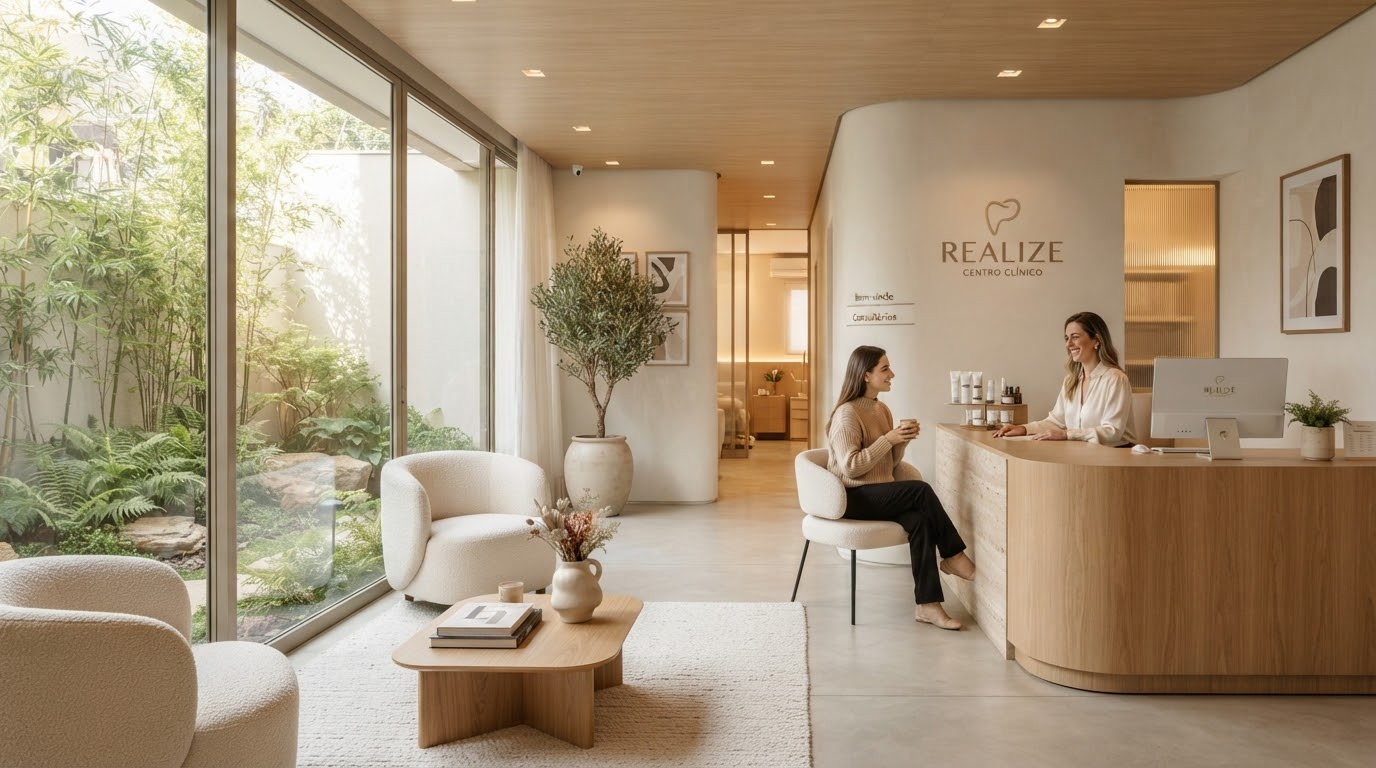
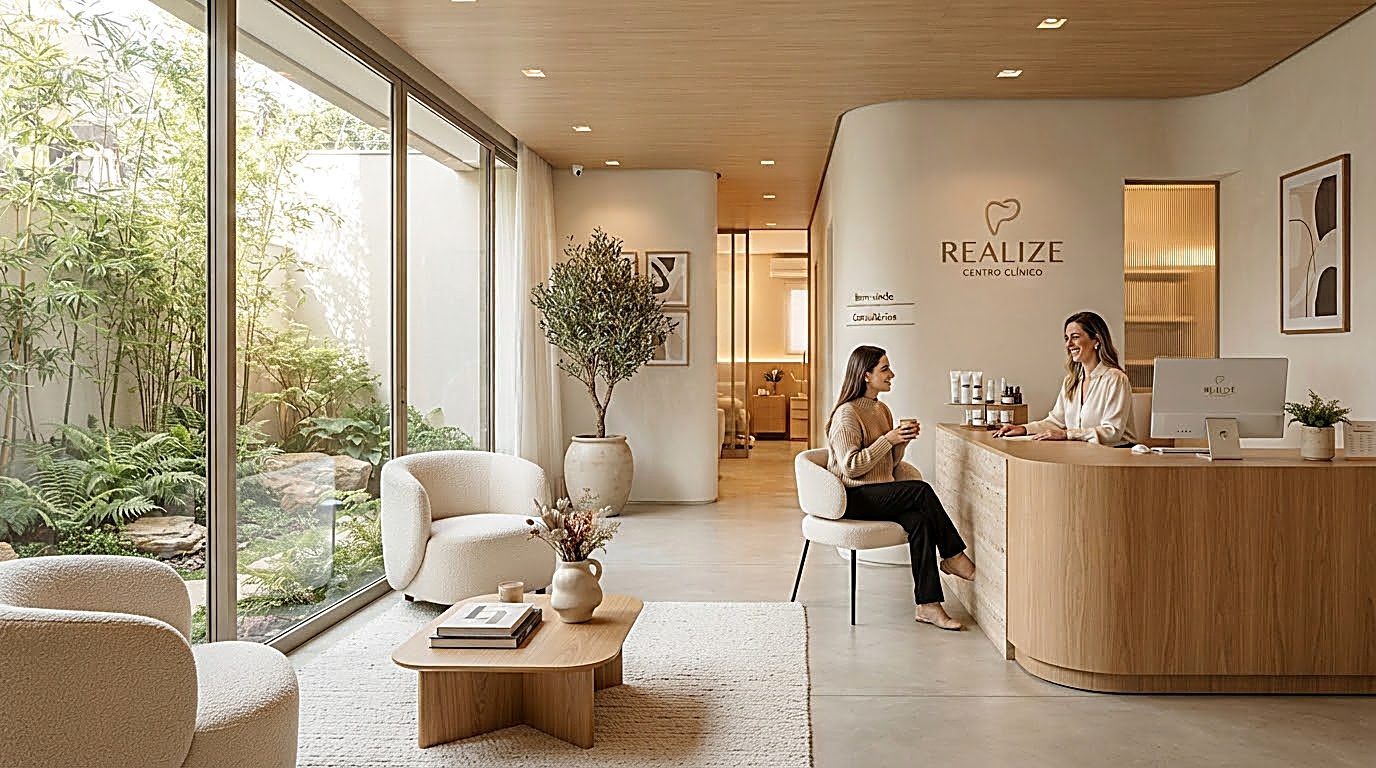
fix: centraliza texto do hero e padroniza os 3 cards de procedimentos como placeholder
Hero: texto e botoes agora centralizados; gradiente de contraste trocado
de linear (unilateral) para radial, ja que um overlay pensado pra texto
alinhado a esquerda deixava a metade direita do texto centralizado sem
contraste suficiente sobre a foto. Aplicado unsharp mask + reencode em
qualidade maior na imagem de fundo (essa e a resolucao maxima disponivel
na fonte gerada pelo Stitch).

Procedimentos: os 3 cards tinham larguras diferentes por um bug de
sizing no flex (min-w sem width fixo deixava o item do meio mais estreito
que os outros). Corrigido para largura fixa igual nos tres. Os dois cards
com foto real foram trocados por ilustracoes placeholder no mesmo estilo
do card do meio, com selo "Imagem de exemplo - substituir apos orcamento",
deixando claro pro cliente que sao imagens de exemplo ate a aprovacao.

diff --git a/index.html b/index.html
@@ -130,15 +130,15 @@
 <div class="absolute inset-0 hero-gradient z-10"></div>
 <img class="w-full h-full object-cover object-center" alt="Interior sereno e boutique da clínica, com luz suave em tons de champanhe e linhas arquitetônicas minimalistas." src="images/hero-clinica.jpg"/>
 </div>
-<div class="relative z-20 w-full px-margin-mobile md:px-margin-desktop max-w-7xl mx-auto">
+<div class="relative z-20 w-full px-margin-mobile md:px-margin-desktop max-w-7xl mx-auto flex flex-col items-center text-center">
 <div class="max-w-3xl">
 <h1 class="font-display-lg text-display-lg-mobile md:text-display-lg text-primary mb-6">
 O tratamento que você adiou por medo agora tem um lugar seguro.
 </h1>
-<p class="font-body-lg text-body-lg text-on-surface-variant mb-10 max-w-xl">
+<p class="font-body-lg text-body-lg text-on-surface-variant mb-10 max-w-xl mx-auto">
 Especializada em cirurgias complexas e implantes, com o acolhimento que você merece. Nossa clínica em Goiânia une alta tecnologia e sensibilidade.
 </p>
-<div class="flex flex-col md:flex-row gap-4">
+<div class="flex flex-col md:flex-row gap-4 justify-center">
 <a class="bg-primary text-on-primary px-10 py-5 rounded-DEFAULT font-label-md text-center hover:opacity-90 transition-all active:scale-95" href="#agendar">
 Agendar Avaliação
 </a>
@@ -207,27 +207,39 @@ Ambiente hospitalar e especialização técnica. Seguimos os mais rigorosos padr
 </div>
 </div>
 <div class="flex gap-gutter overflow-x-auto px-margin-mobile md:px-margin-desktop no-scrollbar snap-x" id="procedures-container">
-<div class="min-w-[300px] md:min-w-[450px] snap-center group">
+<div class="w-[300px] md:w-[450px] shrink-0 snap-center group">
 <div class="relative aspect-[3/4] mb-6 overflow-hidden rounded-lg bg-surface-container">
-<img class="w-full h-full object-cover group-hover:scale-105 transition-transform duration-700" alt="Modelo de implante dentário de precisão sobre fundo em tom champanhe." src="images/implante.jpg"/>
+<img class="w-full h-full object-cover group-hover:scale-105 transition-transform duration-700" alt="Ilustração de exemplo representando implante dentário, a substituir por foto real." src="images/placeholder-implante.svg"/>
+<div class="absolute top-4 left-4 bg-surface/90 border border-outline-variant/40 rounded-DEFAULT px-3 py-1.5">
+<p class="text-[10px] font-label-md uppercase tracking-wider text-secondary leading-tight">Imagem de exemplo</p>
+<p class="text-[10px] text-on-surface-variant leading-tight">substituir após orçamento</p>
+</div>
 <div class="absolute inset-0 bg-gradient-to-t from-primary/60 to-transparent flex items-end p-8">
 <h3 class="text-on-primary font-headline-sm">Perdeu um dente?</h3>
 </div>
 </div>
 <p class="font-body-md text-body-md text-on-surface-variant">Implantes dentários de alta precisão que devolvem sua função mastigatória e autoestima.</p>
 </div>
-<div class="min-w-[300px] md:min-w-[450px] snap-center group">
+<div class="w-[300px] md:w-[450px] shrink-0 snap-center group">
 <div class="relative aspect-[3/4] mb-6 overflow-hidden rounded-lg bg-surface-container">
-<img class="w-full h-full object-cover group-hover:scale-105 transition-transform duration-700" alt="Ilustração de dente em estilo boutique, representando cuidado na cirurgia oral." src="images/cirurgia-oral.svg"/>
+<img class="w-full h-full object-cover group-hover:scale-105 transition-transform duration-700" alt="Ilustração de exemplo representando cirurgia oral, a substituir por foto real." src="images/cirurgia-oral.svg"/>
+<div class="absolute top-4 left-4 bg-surface/90 border border-outline-variant/40 rounded-DEFAULT px-3 py-1.5">
+<p class="text-[10px] font-label-md uppercase tracking-wider text-secondary leading-tight">Imagem de exemplo</p>
+<p class="text-[10px] text-on-surface-variant leading-tight">substituir após orçamento</p>
+</div>
 <div class="absolute inset-0 bg-gradient-to-t from-primary/60 to-transparent flex items-end p-8">
 <h3 class="text-on-primary font-headline-sm">Siso ou dor?</h3>
 </div>
 </div>
 <p class="font-body-md text-body-md text-on-surface-variant">Cirurgia oral especializada para remoções complexas com o mínimo de desconforto.</p>
 </div>
-<div class="min-w-[300px] md:min-w-[450px] snap-center group">
+<div class="w-[300px] md:w-[450px] shrink-0 snap-center group">
 <div class="relative aspect-[3/4] mb-6 overflow-hidden rounded-lg bg-surface-container">
-<img class="w-full h-full object-cover group-hover:scale-105 transition-transform duration-700" alt="Ambiente hospitalar odontológico moderno e sofisticado." src="images/hospitalar.jpg"/>
+<img class="w-full h-full object-cover group-hover:scale-105 transition-transform duration-700" alt="Ilustração de exemplo representando atendimento hospitalar, a substituir por foto real." src="images/placeholder-hospitalar.svg"/>
+<div class="absolute top-4 left-4 bg-surface/90 border border-outline-variant/40 rounded-DEFAULT px-3 py-1.5">
+<p class="text-[10px] font-label-md uppercase tracking-wider text-secondary leading-tight">Imagem de exemplo</p>
+<p class="text-[10px] text-on-surface-variant leading-tight">substituir após orçamento</p>
+</div>
 <div class="absolute inset-0 bg-gradient-to-t from-primary/60 to-transparent flex items-end p-8">
 <h3 class="text-on-primary font-headline-sm">Casos complexos?</h3>
 </div>

diff --git a/css/style.css b/css/style.css
@@ -12,7 +12,7 @@
   transition: all 0.4s cubic-bezier(0.4, 0, 0.2, 1);
 }
 .hero-gradient {
-  background: linear-gradient(to right, rgba(250, 249, 246, 0.9) 30%, rgba(250, 249, 246, 0) 100%);
+  background: radial-gradient(ellipse 70% 65% at center, rgba(250, 249, 246, 0.92) 0%, rgba(250, 249, 246, 0.72) 55%, rgba(250, 249, 246, 0.35) 100%);
 }
 .period-option.is-selected {
   border-color: #7d562d;